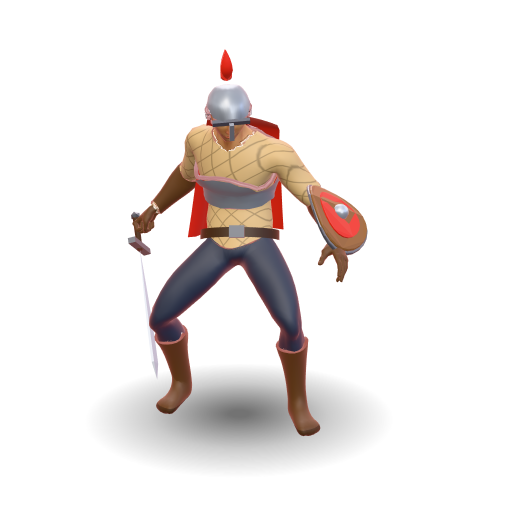
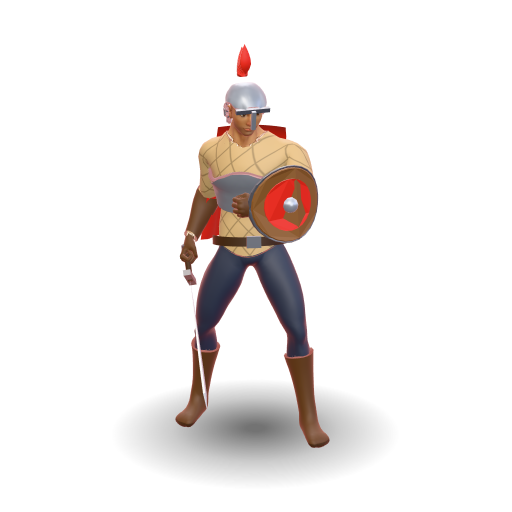
render: team-coloured puck disc (readable from above), taller camera fit, upright paladin idle
- Glowing team disc inside the rarity ring on every puck: blue/red now reads
  at a glance in the top-down view (rings stay rarity-coloured)
- Camera fit uses the new tallest unit (~2.2 world units incl. puck)
- Paladin idles in the upright shield stance instead of the crouched fencing
  stance; collection previews regenerated

Claude-Session: https://claude.ai/code/session_01CHbyEtdGcc9JJBQ25d4ssC

Changed region(s): [[0.2188, 0.0938, 0.7188, 0.9375]]

diff --git a/src/render/BoardView.ts b/src/render/BoardView.ts
@@ -292,9 +292,12 @@ class PieceKit {
     return mat;
   }
 
-  /** Base puck + rarity ring + level pips merged into one vertex-coloured geometry. */
-  private puck(r: Rarity, level: Level): THREE.BufferGeometry {
-    const key = `${r}:${level}`;
+  /**
+   * Base puck + glowing team disc + rarity ring + level pips merged into one vertex-coloured
+   * geometry. The team disc keeps blue/red readable from straight above (top-down view).
+   */
+  private puck(r: Rarity, level: Level, owner: PlayerId): THREE.BufferGeometry {
+    const key = `${r}:${level}:${owner}`;
     let geo = this.pucks.get(key);
     if (geo) return geo;
     const profile = [
@@ -312,6 +315,12 @@ class PieceKit {
         geo: new THREE.TorusGeometry(0.41, 0.058, 8, 48).rotateX(Math.PI / 2).translate(0, 0.07, 0),
         color: RARITY_COLORS[r],
         emit: 0.5 + 1.0 * RARITY_GLOW[r],
+        rim: 0,
+      },
+      {
+        geo: new THREE.CircleGeometry(0.315, 40).rotateX(-Math.PI / 2).translate(0, 0.1415, 0),
+        color: TEAM_COLORS[owner].main,
+        emit: 0.6,
         rim: 0,
       },
     ];
@@ -390,7 +399,7 @@ class PieceKit {
     root.add(inner);
 
     // Puck + rarity ring + level pips: one draw (+ one shadow draw).
-    const puck = new THREE.Mesh(this.puck(rar, p.level), this.puckMat);
+    const puck = new THREE.Mesh(this.puck(rar, p.level, p.owner), this.puckMat);
     puck.castShadow = false; // the decal already carries the contact shadow
     puck.receiveShadow = false;
     puck.raycast = () => undefined;
@@ -1424,7 +1433,7 @@ export class BoardView implements IBoardView {
       }
     }
     // Tallest piece on the far row (only matters for the tilted view).
-    const topY = 1.95 * (1 - t) + 0.4 * t;
+    const topY = 2.2 * (1 - t) + 0.4 * t; // TILE_TOP + PUCK_TOP + UNIT_MAX_HEIGHT
     pts.push(new THREE.Vector3(-HALF, topY, -HALF), new THREE.Vector3(HALF, topY, -HALF));
     const marginX = portrait ? 0.985 : 0.92;
     const marginY = portrait ? 0.95 : 0.92;

diff --git a/src/render/units/config.ts b/src/render/units/config.ts
@@ -74,7 +74,7 @@ export const LOOKS: Record<CharacterId, CharacterLook> = {
     impact: 0.45,
     rim: 0.45,
     clips: {
-      idle: { src: 'Sword_Idle' },
+      idle: { src: 'Idle_Shield_Loop' },
       run: { src: 'Jog_Fwd_Loop' },
       attack: { src: 'Sword_Regular_A' },
       hit: { src: 'Hit_Chest' },
